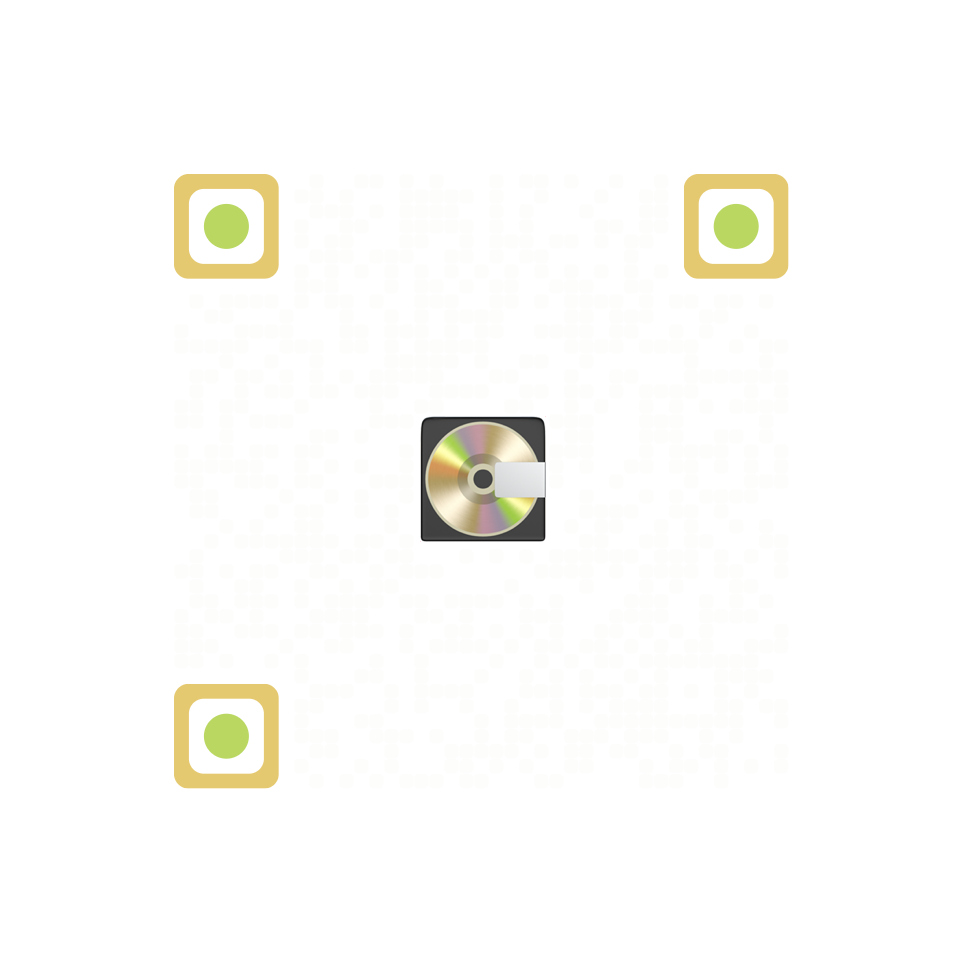
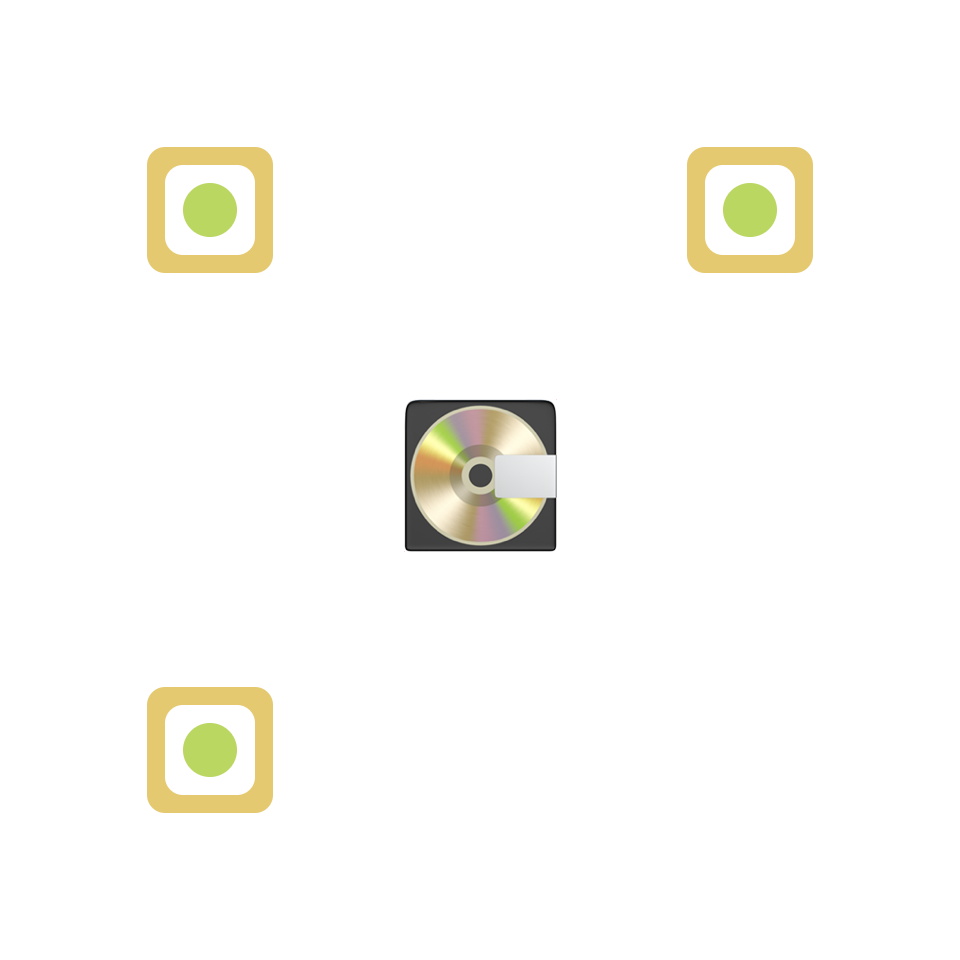
Simplify auth to use static QR with shared token
- Remove dynamic QR generation; use designed static qr-auth.png
- Use shared "verify-account" token that matches QR encoding
- Reset token to pending when terminal starts polling (fresh login only)
- Remove redirect script from auth.html that broke Cloudflare pretty URLs
- Update QR image to encode correct ascend.jacobhenderson.studio URL

diff --git a/assets/ascend.js b/assets/ascend.js
@@ -13,46 +13,15 @@
   // Auth page URL (phone scans QR to reach this)
   const AUTH_PAGE_URL = "https://ascend.jacobhenderson.studio/auth.html";
 
-  // Generate unique token per terminal session to avoid cross-terminal collision
-  const TERMINAL_TOKEN_KEY = "ascend_terminal_token_v1";
+  // Static QR token - matches what's encoded in qr-auth.png
+  // All terminals share this token; email is the identity key
+  const STATIC_QR_TOKEN = "verify-account";
 
-  function generateNewToken_() {
-    if (window.crypto && window.crypto.randomUUID) {
-      return window.crypto.randomUUID();
-    }
-    // Fallback for older browsers
-    return "t_" + Date.now().toString(36) + "_" + Math.random().toString(36).slice(2, 10);
-  }
+  // Current handshake token for polling (uses static token to match QR)
+  let currentHandshakeToken = STATIC_QR_TOKEN;
 
-  function getOrCreateTerminalToken() {
-    try {
-      // Check if we already have a token for this terminal (persists until logout)
-      let token = localStorage.getItem(TERMINAL_TOKEN_KEY);
-      if (token) return token;
-
-      token = generateNewToken_();
-      localStorage.setItem(TERMINAL_TOKEN_KEY, token);
-      return token;
-    } catch (e) {
-      // If localStorage fails, generate ephemeral token
-      return generateNewToken_();
-    }
-  }
-
-  function regenerateTerminalToken_() {
-    const token = generateNewToken_();
-    try {
-      localStorage.setItem(TERMINAL_TOKEN_KEY, token);
-    } catch (e) {}
-    currentHandshakeToken = token;
-    return token;
-  }
-
-  // Current handshake token (can be regenerated on logout)
-  let currentHandshakeToken = getOrCreateTerminalToken();
-
-  // For backward compatibility - but use currentHandshakeToken in polling
-  const HANDSHAKE_TOKEN = currentHandshakeToken;
+  // For backward compatibility
+  const HANDSHAKE_TOKEN = STATIC_QR_TOKEN;
 
   // App destinations – always point to the live GitHub Pages workspace
   const ARTSTART_URL =
@@ -589,18 +558,27 @@
     }
   }
 
-  function startPollingForLogin() {
+  async function startPollingForLogin() {
     if (pollingTimer) {
-      console.log("Starting polling loop for login…");
       clearInterval(pollingTimer);
       pollingTimer = null;
     }
 
-    // Prefer ?token=… from the URL, fall back to current terminal token.
-    const urlToken = new URLSearchParams(window.location.search).get("token");
-    const token = urlToken || currentHandshakeToken;
-
+    const token = currentHandshakeToken;
     console.log("[Ascend] Using handshake token:", token);
+
+    // Reset the token to pending so we only pick up FRESH logins
+    // AWAIT this before polling to avoid race condition
+    try {
+      await fetch(AUTH_ENDPOINT + "?action=reset", {
+        method: "POST",
+        headers: { "Content-Type": "application/json" },
+        body: JSON.stringify({ token: token, action: "reset" })
+      });
+      console.log("[Ascend] Token reset to pending");
+    } catch (e) {
+      console.warn("[Ascend] Failed to reset token:", e);
+    }
 
     async function checkOnce() {
       try {
@@ -705,33 +683,15 @@
       const btn = document.getElementById("ascend-logout-btn");
       if (!btn) return;
       btn.addEventListener("click", () => {
-        // Clear any existing session
+        // Clear local session only (shared token means we don't reset backend)
         saveSession(null);
-
-        // Reset the token row on backend to "pending" so polling doesn't auto-login
-        resetTokenOnBackend_();
 
         // Put the UI back into logged-out mode
         applyLoggedOutUI();
         updateUserChip(null);
 
-        // IMPORTANT: start listening again for a new QR login
+        // Start listening for a new QR login
         startPollingForLogin();
-      });
-    }
-
-    // Reset the terminal's token row to pending status on the backend
-    function resetTokenOnBackend_() {
-      const token = currentHandshakeToken;
-      if (!token) return;
-
-      // Fire-and-forget POST to reset the token
-      fetch(AUTH_ENDPOINT + "?action=reset", {
-        method: "POST",
-        headers: { "Content-Type": "application/json" },
-        body: JSON.stringify({ token: token, action: "reset" })
-      }).catch(function(e) {
-        console.warn("[Ascend] Failed to reset token on backend:", e);
       });
     }
 
@@ -2238,41 +2198,6 @@ function openCodeDeskFromTemplate_(tpl, parentAscendJobKey) {
     }
   }
 
-    // ---- Dynamic QR code generation ----
-
-  function renderDynamicQrCode() {
-    const placeholder = document.getElementById("ascend-qr-placeholder");
-    if (!placeholder) return;
-
-    // Build the auth URL with this terminal's unique token
-    const authUrl = AUTH_PAGE_URL + "?token=" + encodeURIComponent(currentHandshakeToken);
-
-    // Use QR Server API to generate the QR code image
-    const qrApiUrl = "https://api.qrserver.com/v1/create-qr-code/?size=300x300&format=svg&data=" + encodeURIComponent(authUrl);
-
-    // Create the QR code image (don't clear placeholder until image loads)
-    const img = document.createElement("img");
-    img.alt = "Scan to log in";
-    img.style.cssText = "width: 100%; height: 100%; object-fit: contain;";
-
-    // Only replace content once image loads successfully
-    img.onload = function() {
-      placeholder.style.backgroundImage = "none";
-      placeholder.innerHTML = "";
-      placeholder.appendChild(img);
-      console.log("[Ascend] Dynamic QR loaded for token:", currentHandshakeToken);
-    };
-
-    // Handle load errors - keep CSS background as fallback
-    img.onerror = function() {
-      console.warn("[Ascend] QR API failed, keeping static fallback");
-      // Keep the CSS background image as fallback
-    };
-
-    // Start loading
-    img.src = qrApiUrl;
-  }
-
     // ---- bootstrap ----
 
   function bootstrap() {
@@ -2280,9 +2205,7 @@ function openCodeDeskFromTemplate_(tpl, parentAscendJobKey) {
     initPrimaryButtons();
     initTrashModal();
     // Calendar trigger handled by calendar.js
-
-    // Render dynamic QR code with unique terminal token
-    renderDynamicQrCode();
+    // Static QR from CSS background (qr-auth.png) - no dynamic generation needed
 
     const existing = loadSession();
     if (isSessionValid(existing)) {

diff --git a/auth.html b/auth.html
@@ -7,16 +7,6 @@
       name="viewport"
       content="width=device-width,initial-scale=1,shrink-to-fit=no"
     />
-    <script>
-      (function () {
-        var path = window.location.pathname || "";
-        if (path && !path.endsWith("/") && path.indexOf(".") === -1) {
-          var search = window.location.search || "";
-          var hash = window.location.hash || "";
-          window.location.replace(path + "/" + search + hash);
-        }
-      })();
-    </script>
     <link rel="stylesheet" href="assets/ascend.css" />
   </head>
   <body>
